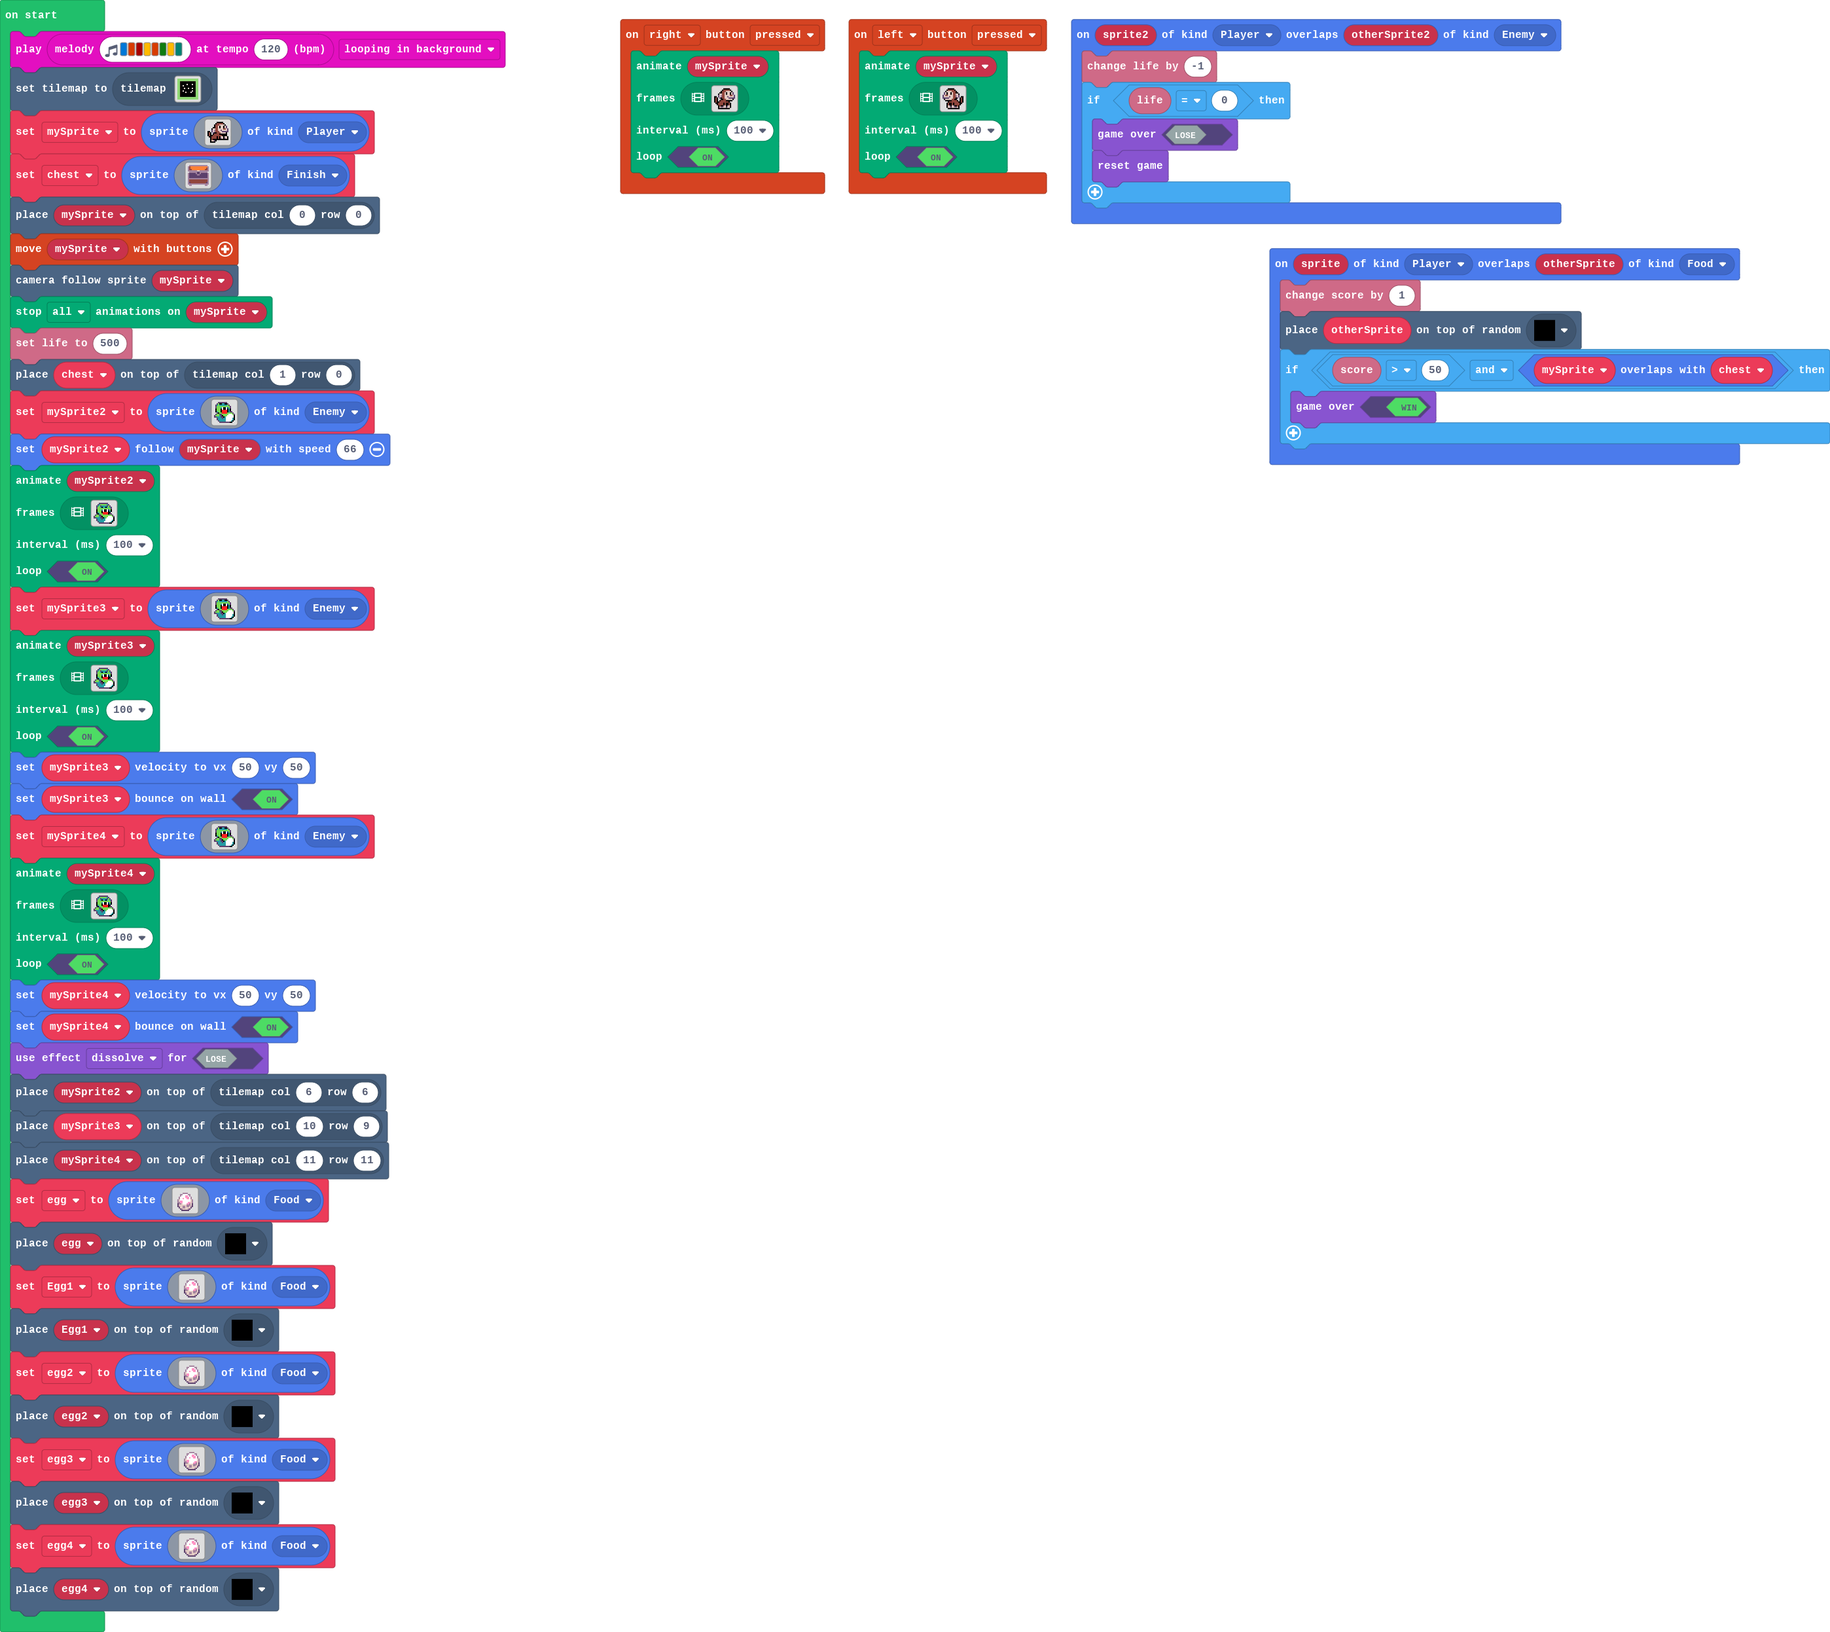
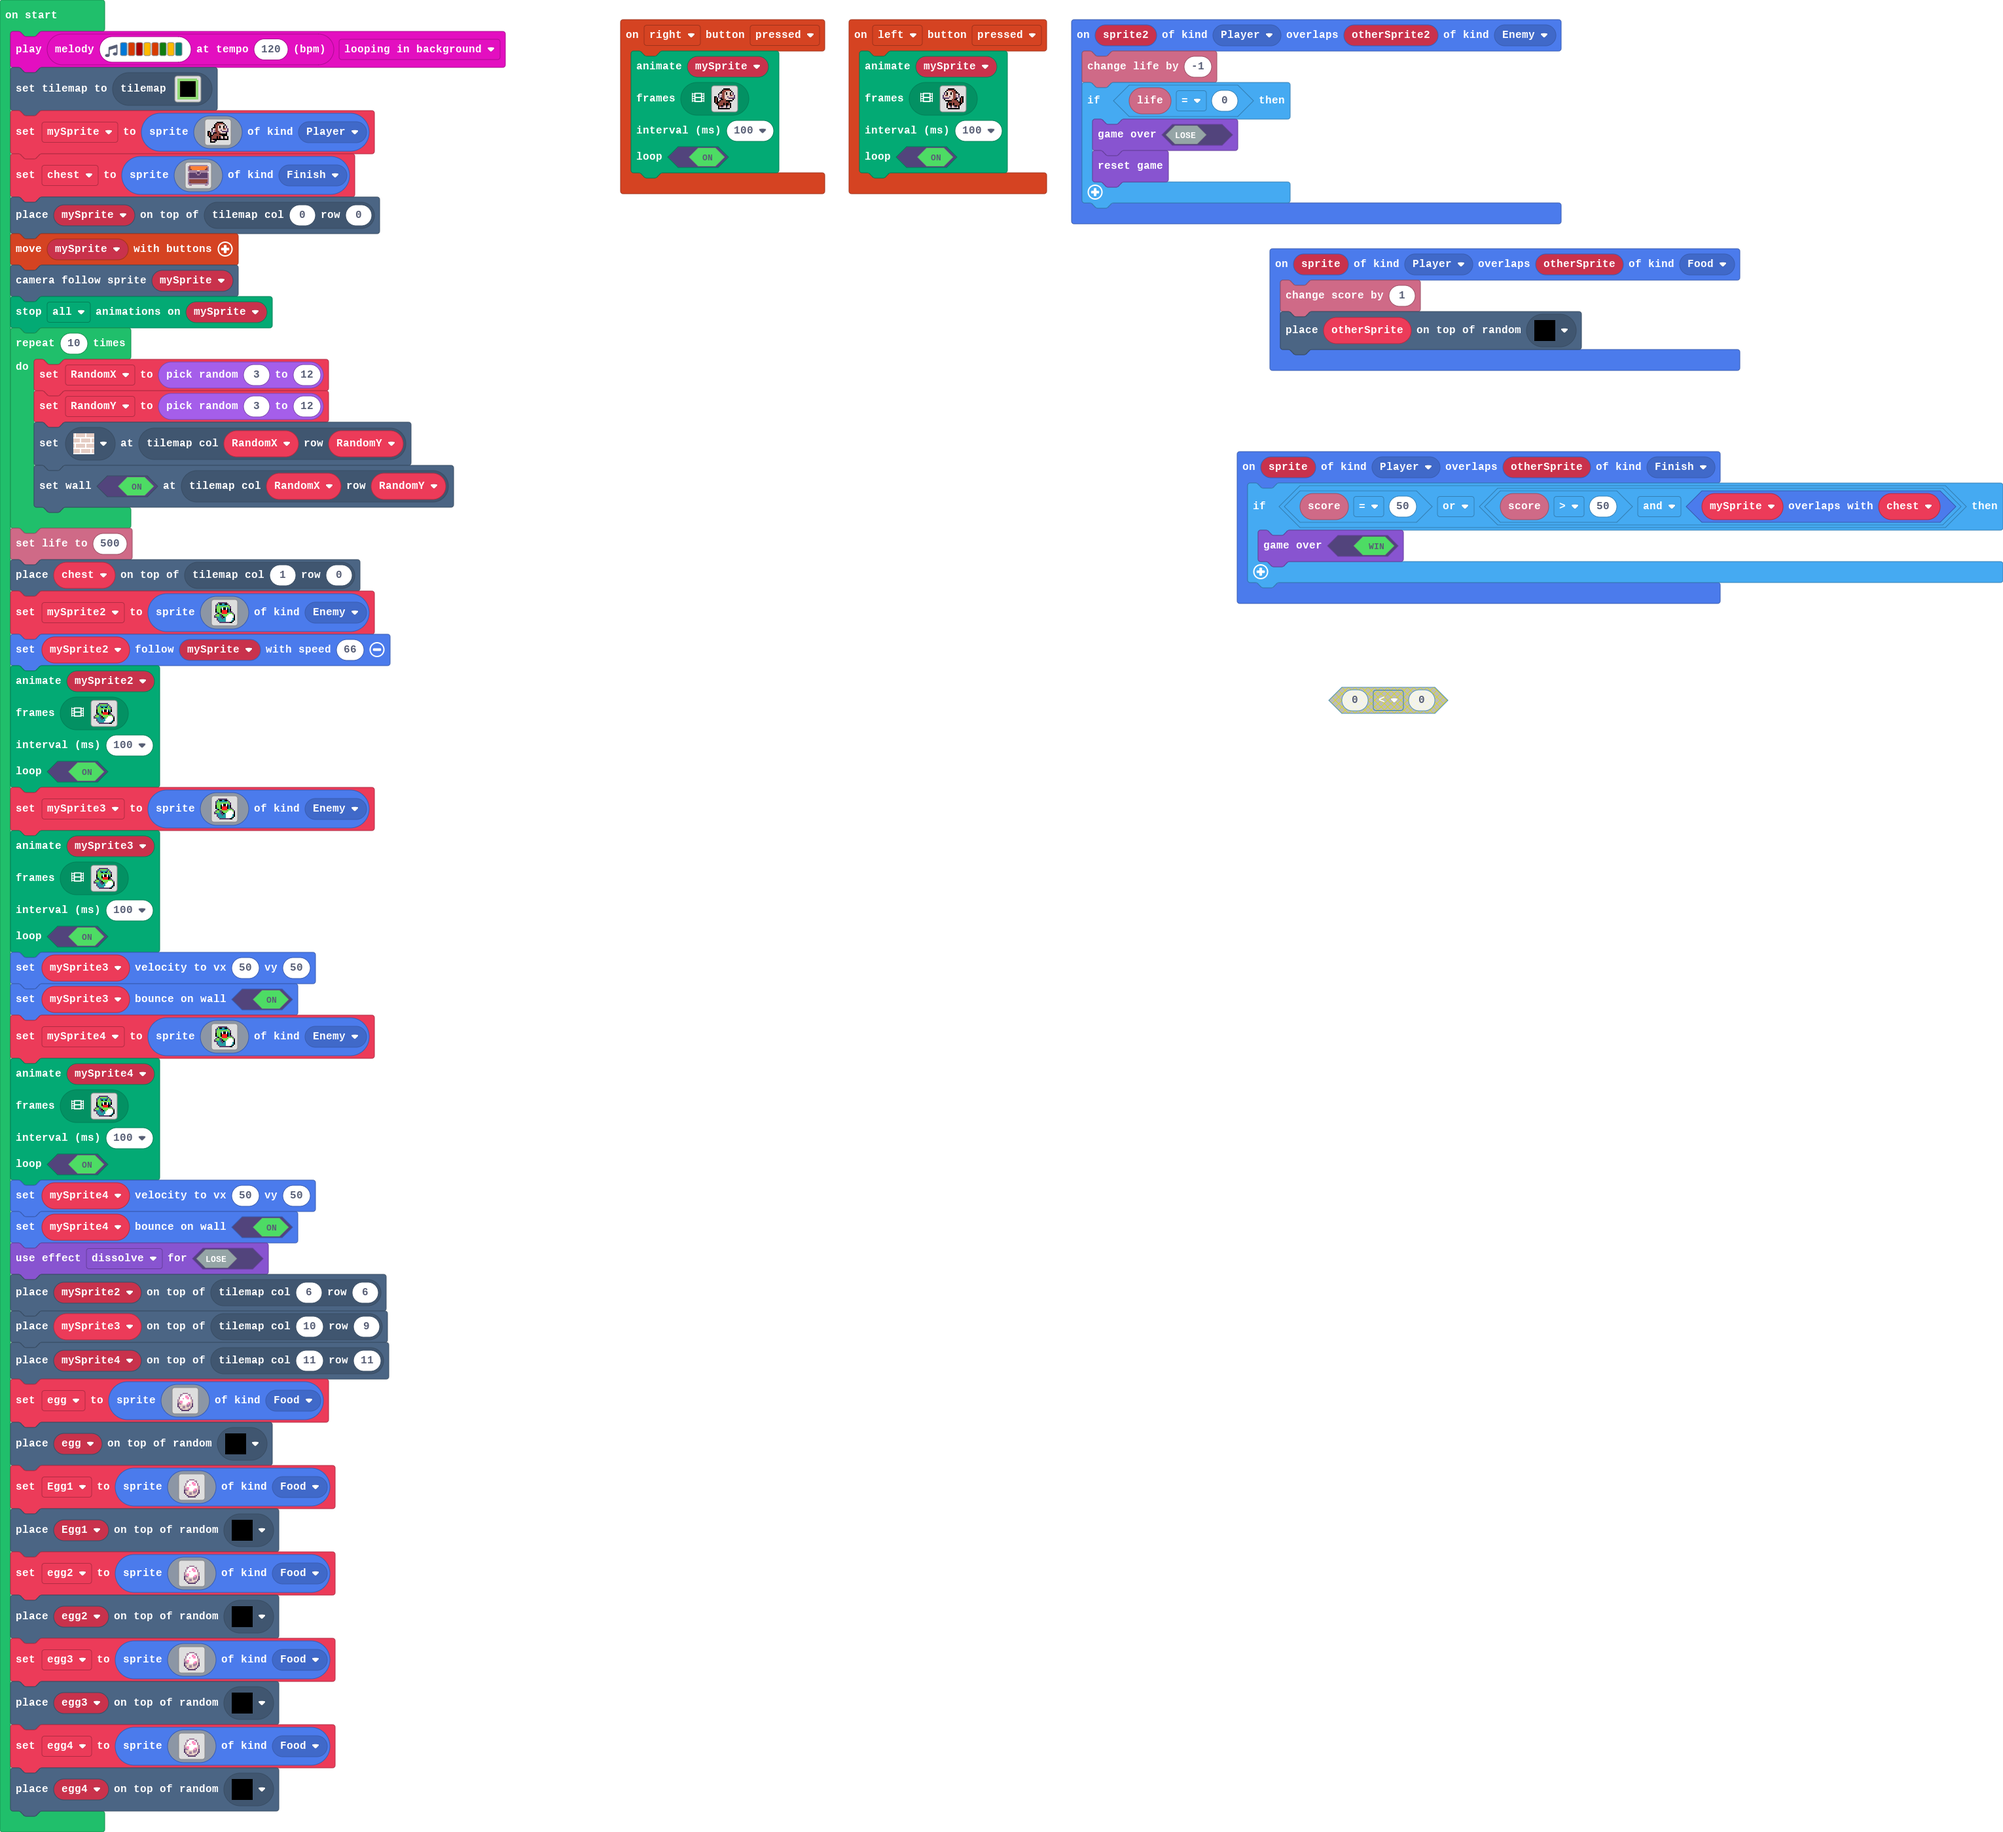
Update main.blocks, main.ts, tilemap.g.jres, tilemap.g.ts

Changed region(s): [[0.0, 0.0, 0.28, 1.0], [0.3112, 0.0, 1.0, 0.3398], [0.6534, 0.3706, 0.7157, 0.4015]]

diff --git a/tilemap.g.ts b/tilemap.g.ts
@@ -27,18 +27,18 @@ namespace myTiles {
 . . . . . . . . . . . . . . . . 
 `, [myTiles.transparency16], TileScale.Sixteen);
             case "level1":
[2 lines of base64/hex data omitted]
 . . . . . . . . . . . . . . . . 
 . . . . . . . . . . . . . . . . 
 . . 2 2 2 2 2 2 2 2 2 2 2 2 . . 
 . . 2 . . . . . . . . . . 2 . . 
-. . 2 . . . . 2 . . . 2 . 2 . . 
-. . 2 . 2 . . . . . . . . 2 . . 
 . . 2 . . . . . . . . . . 2 . . 
-. . 2 . . 2 . . 2 . . 2 . 2 . . 
 . . 2 . . . . . . . . . . 2 . . 
-. . 2 . 2 . . . . . . 2 . 2 . . 
-. . 2 . . . 2 . . . 2 . . 2 . . 
+. . 2 . . . . . . . . . . 2 . . 
+. . 2 . . . . . . . . . . 2 . . 
+. . 2 . . . . . . . . . . 2 . . 
+. . 2 . . . . . . . . . . 2 . . 
+. . 2 . . . . . . . . . . 2 . . 
 . . 2 . . . . . . . . . . 2 . . 
 . . 2 . . . . . . . . . . 2 . . 
 . . 2 2 2 2 2 . 2 2 2 2 2 2 . . 

diff --git a/main.ts b/main.ts
@@ -1,6 +1,12 @@
 namespace SpriteKind {
     export const Finish = SpriteKind.create()
+    export const Block = SpriteKind.create()
 }
+sprites.onOverlap(SpriteKind.Player, SpriteKind.Finish, function (sprite, otherSprite) {
+    if (info.score() == 50 || info.score() > 50 && mySprite.overlapsWith(chest)) {
+        game.gameOver(true)
+    }
+})
 controller.left.onEvent(ControllerButtonEvent.Pressed, function () {
     animation.runImageAnimation(
     mySprite,
@@ -197,10 +203,9 @@ controller.right.onEvent(ControllerButtonEvent.Pressed, function () {
 sprites.onOverlap(SpriteKind.Player, SpriteKind.Food, function (sprite, otherSprite) {
     info.changeScoreBy(1)
     tiles.placeOnRandomTile(otherSprite, sprites.builtin.forestTiles10)
-    if (info.score() > 50 && mySprite.overlapsWith(chest)) {
-        game.gameOver(true)
-    }
 })
+let RandomY = 0
+let RandomX = 0
 let chest: Sprite = null
 let mySprite: Sprite = null
 music.play(music.stringPlayable("E B C5 A B G A F ", 120), music.PlaybackMode.LoopingInBackground)
@@ -245,6 +250,12 @@ tiles.placeOnTile(mySprite, tiles.getTileLocation(0, 0))
 controller.moveSprite(mySprite)
 scene.cameraFollowSprite(mySprite)
 animation.stopAnimation(animation.AnimationTypes.All, mySprite)
+for (let index = 0; index < 10; index++) {
+    RandomX = randint(3, 12)
+    RandomY = randint(3, 12)
+    tiles.setTileAt(tiles.getTileLocation(RandomX, RandomY), sprites.builtin.brick)
+    tiles.setWallAt(tiles.getTileLocation(RandomX, RandomY), true)
+}
 info.setLife(500)
 tiles.placeOnTile(chest, tiles.getTileLocation(1, 0))
 let mySprite2 = sprites.create(img`
